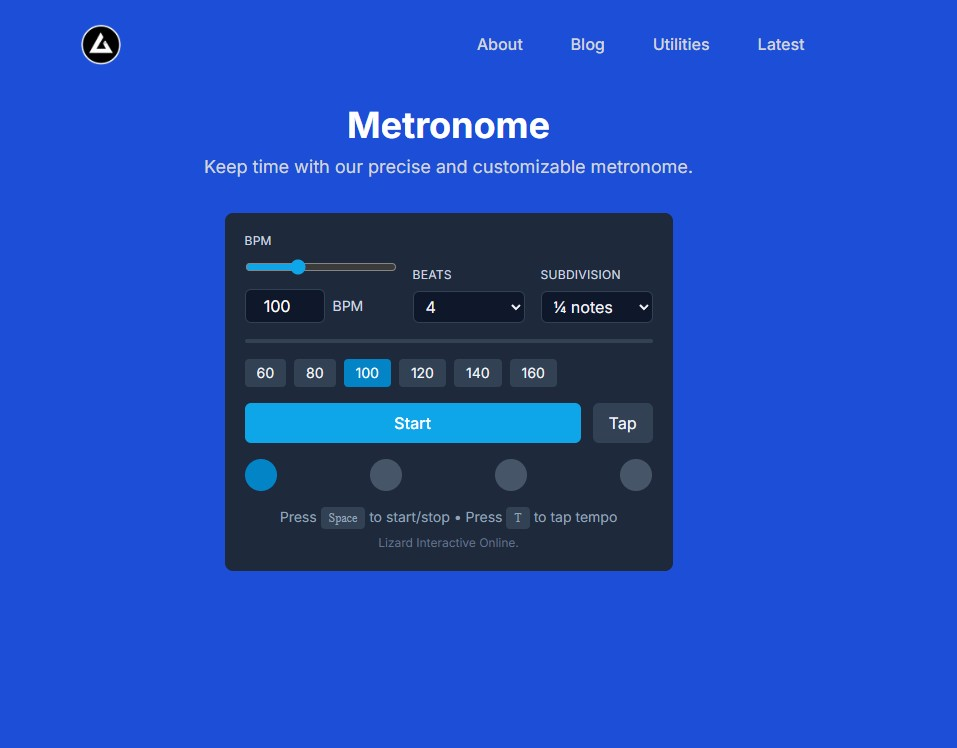
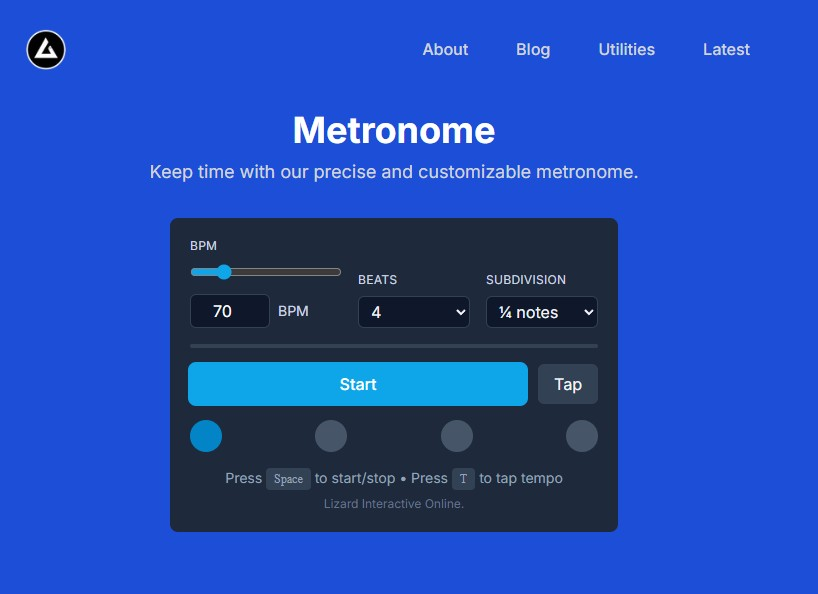
fix metronime bugs

diff --git a/components/Metronome/Metronome.tsx b/components/Metronome/Metronome.tsx
@@ -285,7 +285,7 @@ export default function Metronome() {
             </div>
 
             {/* BPM Presets */}
-            <div className="flex gap-2 mb-4 flex-wrap">
+            {/* <div className="flex gap-2 mb-4 flex-wrap">
                 {[60, 80, 100, 120, 140, 160].map((presetBpm) => (
                     <button
                         key={presetBpm}
@@ -298,7 +298,7 @@ export default function Metronome() {
                         {presetBpm}
                     </button>
                 ))}
-            </div>
+            </div> */}
 
             <div className="flex gap-3 mb-4">
                 <button
